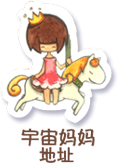
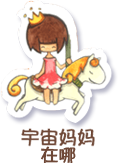
完善了品牌和联系我们页面

Changed region(s): [[0.3305, 0.8896, 0.661, 1.0]]

diff --git a/default_002.html b/default_002.html
@@ -32,68 +32,68 @@
       <div class="list_box relative">
         <div class="list_rj">
                     <div class="rj_box">
-            <span><a href="http://www.unclema.com/index.php?c=article&amp;id=449" title="Hello，马克叔叔"><img src="261244105766.jpg"></a></span>
-            <p><em><img src="index_box_icon.png"></em><a href="http://www.unclema.com/index.php?c=article&amp;id=449">Hello，马克叔叔</a></p>
+            <span><a href="http://www.unclema.com/index.php?c=article&amp;id=449" title="Hello，宇宙妈妈"><img src="261244105766.jpg"></a></span>
+            <p><em><img src="index_box_icon.png"></em><a href="http://www.unclema.com/index.php?c=article&amp;id=449">Hello，宇宙妈妈</a></p>
           </div>
                     <div class="rj_box">
             <span><a href="http://www.unclema.com/index.php?c=article&amp;id=448" title="Thank you for everything"><img src="261231565025.jpg"></a></span>
             <p><em><img src="index_box_icon.png"></em><a href="http://www.unclema.com/index.php?c=article&amp;id=448">Thank you for everything</a></p>
           </div>
                     <div class="rj_box">
-            <span><a href="http://www.unclema.com/index.php?c=article&amp;id=410" title="我心中的马克叔叔（一）"><img src="271101518785.jpg"></a></span>
-            <p><em><img src="index_box_icon.png"></em><a href="http://www.unclema.com/index.php?c=article&amp;id=410">我心中的马克叔叔（一）</a></p>
+            <span><a href="http://www.unclema.com/index.php?c=article&amp;id=410" title="我心中的宇宙妈妈（一）"><img src="271101518785.jpg"></a></span>
+            <p><em><img src="index_box_icon.png"></em><a href="http://www.unclema.com/index.php?c=article&amp;id=410">我心中的宇宙妈妈（一）</a></p>
           </div>
                     <div class="rj_box">
             <span><a href="http://www.unclema.com/index.php?c=article&amp;id=387" title="你在我身边，从未走远"><img src="112313166602.jpg"></a></span>
             <p><em><img src="index_box_icon.png"></em><a href="http://www.unclema.com/index.php?c=article&amp;id=387">你在我身边，从未走远</a></p>
           </div>
                     <div class="rj_box">
-            <span><a href="http://www.unclema.com/index.php?c=article&amp;id=386" title="宛若新生——纪马克六周年"><img src="111809564662.jpg"></a></span>
-            <p><em><img src="index_box_icon.png"></em><a href="http://www.unclema.com/index.php?c=article&amp;id=386">宛若新生——纪马克六周年</a></p>
+            <span><a href="http://www.unclema.com/index.php?c=article&amp;id=386" title="宛若新生——纪宇宙妈妈六周年"><img src="111809564662.jpg"></a></span>
+            <p><em><img src="index_box_icon.png"></em><a href="http://www.unclema.com/index.php?c=article&amp;id=386">宛若新生——纪宇宙妈妈六周年</a></p>
           </div>
                     <div class="rj_box">
-            <span><a href="http://www.unclema.com/index.php?c=article&amp;id=250" title="马克叔叔推出会员积分兑换活动"><img src="241303596531.jpg"></a></span>
-            <p><em><img src="index_box_icon.png"></em><a href="http://www.unclema.com/index.php?c=article&amp;id=250">马克叔叔推出会员积分兑换活动</a></p>
+            <span><a href="http://www.unclema.com/index.php?c=article&amp;id=250" title="宇宙妈妈推出会员积分兑换活动"><img src="241303596531.jpg"></a></span>
+            <p><em><img src="index_box_icon.png"></em><a href="http://www.unclema.com/index.php?c=article&amp;id=250">宇宙妈妈推出会员积分兑换活动</a></p>
           </div>
                     <div class="rj_box">
-            <span><a href="http://www.unclema.com/index.php?c=article&amp;id=247" title="非一般的马克生日会！"><img src="232051164320.jpg"></a></span>
-            <p><em><img src="index_box_icon.png"></em><a href="http://www.unclema.com/index.php?c=article&amp;id=247">非一般的马克生日会！</a></p>
+            <span><a href="http://www.unclema.com/index.php?c=article&amp;id=247" title="非一般的宇宙妈妈生日会！"><img src="232051164320.jpg"></a></span>
+            <p><em><img src="index_box_icon.png"></em><a href="http://www.unclema.com/index.php?c=article&amp;id=247">非一般的宇宙妈妈生日会！</a></p>
           </div>
                     <div class="rj_box">
-            <span><a href="http://www.unclema.com/index.php?c=article&amp;id=226" title="马克森林与你以爱相约！"><img src="122008198672.jpg"></a></span>
-            <p><em><img src="index_box_icon.png"></em><a href="http://www.unclema.com/index.php?c=article&amp;id=226">马克森林与你以爱相约！</a></p>
+            <span><a href="http://www.unclema.com/index.php?c=article&amp;id=226" title="宇宙妈妈森林与你以爱相约！"><img src="122008198672.jpg"></a></span>
+            <p><em><img src="index_box_icon.png"></em><a href="http://www.unclema.com/index.php?c=article&amp;id=226">宇宙妈妈森林与你以爱相约！</a></p>
           </div>
                     <div class="rj_box">
-            <span><a href="http://www.unclema.com/index.php?c=article&amp;id=216" title="期待马克森林新店！"><img src="121704053396.jpg"></a></span>
-            <p><em><img src="index_box_icon.png"></em><a href="http://www.unclema.com/index.php?c=article&amp;id=216">期待马克森林新店！</a></p>
+            <span><a href="http://www.unclema.com/index.php?c=article&amp;id=216" title="期待宇宙妈妈森林新店！"><img src="121704053396.jpg"></a></span>
+            <p><em><img src="index_box_icon.png"></em><a href="http://www.unclema.com/index.php?c=article&amp;id=216">期待宇宙妈妈森林新店！</a></p>
           </div>
                     <div class="rj_box">
-            <span><a href="http://www.unclema.com/index.php?c=article&amp;id=207" title="马克叔叔泸州乐园店梦幻登场！"><img src="271136486878.png"></a></span>
-            <p><em><img src="index_box_icon.png"></em><a href="http://www.unclema.com/index.php?c=article&amp;id=207">马克叔叔泸州乐园店梦幻登场！</a></p>
+            <span><a href="http://www.unclema.com/index.php?c=article&amp;id=207" title="宇宙妈妈泸州乐园店梦幻登场！"><img src="271136486878.png"></a></span>
+            <p><em><img src="index_box_icon.png"></em><a href="http://www.unclema.com/index.php?c=article&amp;id=207">宇宙妈妈泸州乐园店梦幻登场！</a></p>
           </div>
                     <div class="rj_box">
-            <span><a href="http://www.unclema.com/index.php?c=article&amp;id=198" title="关于马克叔叔被侵权的声明"><img src="161415574250.jpg"></a></span>
-            <p><em><img src="index_box_icon.png"></em><a href="http://www.unclema.com/index.php?c=article&amp;id=198">关于马克叔叔被侵权的声明</a></p>
+            <span><a href="http://www.unclema.com/index.php?c=article&amp;id=198" title="关于宇宙妈妈被侵权的声明"><img src="161415574250.jpg"></a></span>
+            <p><em><img src="index_box_icon.png"></em><a href="http://www.unclema.com/index.php?c=article&amp;id=198">关于宇宙妈妈被侵权的声明</a></p>
           </div>
                     <div class="rj_box">
-            <span><a href="http://www.unclema.com/index.php?c=article&amp;id=195" title="马克一猜到底"><img src="181201503138.jpg"></a></span>
-            <p><em><img src="index_box_icon.png"></em><a href="http://www.unclema.com/index.php?c=article&amp;id=195">马克一猜到底</a></p>
+            <span><a href="http://www.unclema.com/index.php?c=article&amp;id=195" title="宇宙妈妈一猜到底"><img src="181201503138.jpg"></a></span>
+            <p><em><img src="index_box_icon.png"></em><a href="http://www.unclema.com/index.php?c=article&amp;id=195">宇宙妈妈一猜到底</a></p>
           </div>
                     <div class="rj_box">
-            <span><a href="http://www.unclema.com/index.php?c=article&amp;id=191" title="马克时光机"><img src="291810314131.jpg"></a></span>
-            <p><em><img src="index_box_icon.png"></em><a href="http://www.unclema.com/index.php?c=article&amp;id=191">马克时光机</a></p>
+            <span><a href="http://www.unclema.com/index.php?c=article&amp;id=191" title="宇宙妈妈时光机"><img src="291810314131.jpg"></a></span>
+            <p><em><img src="index_box_icon.png"></em><a href="http://www.unclema.com/index.php?c=article&amp;id=191">宇宙妈妈时光机</a></p>
           </div>
                     <div class="rj_box">
-            <span><a href="http://www.unclema.com/index.php?c=article&amp;id=188" title="马克亲子模特大评选"><img src="191447566348.jpg"></a></span>
-            <p><em><img src="index_box_icon.png"></em><a href="http://www.unclema.com/index.php?c=article&amp;id=188">马克亲子模特大评选</a></p>
+            <span><a href="http://www.unclema.com/index.php?c=article&amp;id=188" title="宇宙妈妈亲子模特大评选"><img src="191447566348.jpg"></a></span>
+            <p><em><img src="index_box_icon.png"></em><a href="http://www.unclema.com/index.php?c=article&amp;id=188">宇宙妈妈亲子模特大评选</a></p>
           </div>
                     <div class="rj_box">
             <span><a href="http://www.unclema.com/index.php?c=article&amp;id=187" title="辣妈有一套！"><img src="091822112523.jpg"></a></span>
             <p><em><img src="index_box_icon.png"></em><a href="http://www.unclema.com/index.php?c=article&amp;id=187">辣妈有一套！</a></p>
           </div>
                     <div class="rj_box">
-            <span><a href="http://www.unclema.com/index.php?c=article&amp;id=179" title="《马克的春天，一起取暖！》"><img src="271115407051.jpg"></a></span>
-            <p><em><img src="index_box_icon.png"></em><a href="http://www.unclema.com/index.php?c=article&amp;id=179">《马克的春天，一起取暖！》</a></p>
+            <span><a href="http://www.unclema.com/index.php?c=article&amp;id=179" title="《宇宙妈妈的春天，一起取暖！》"><img src="271115407051.jpg"></a></span>
+            <p><em><img src="index_box_icon.png"></em><a href="http://www.unclema.com/index.php?c=article&amp;id=179">《宇宙妈妈的春天，一起取暖！》</a></p>
           </div>
                   </div>
       </div>
@@ -101,7 +101,7 @@
     <div class="w990 sub_footer relative">
       
       <p style="display: none;"></p>
-      <a href="http://www.unclema.com/index.php?c=article&amp;a=type&amp;tid=1" class="lxmk_btn absolute"></a><a href="http://www.taobao.com/" class="scmk_btn absolute"></a><a href="http://www.unclema.com/index.php?c=article&amp;id=100" class="zdmk_btn absolute"></a>
+      <a href="http://www.unclema.com/index.php?c=article&amp;a=type&amp;tid=1" class="lxmk_btn absolute"></a><a href="http://www.taobao.com/" class="scmk_btn absolute"></a><a href="default.html" class="zdmk_btn absolute"></a>
 
     </div>
     <div class="telbox">

diff --git a/default 2.html b/default 2.html
@@ -4,7 +4,7 @@
 <meta content="text/html; charset=UTF-8" http-equiv="Content-Type">
 
     
-    <title>马克叔叔-马克叔叔，成都儿童摄影-百天照-周岁照-新生儿照-孕妈照-拍摄更专业！</title>
+    <title>宇宙妈妈，成都儿童摄影-百天照-周岁照-新生儿照-孕妈照-拍摄更专业！</title>
     <meta name="keywords" content=" ">
     <meta name="description" content=" ">
     
@@ -29,25 +29,25 @@
       <div class="list_box relative">
         <div class="list_ss">
                     <div class="ss_box">
-            <a href="http://www.unclema.com/index.php?c=article&amp;id=69" title="马克叔叔简介"><img src="181540304757.png"></a>
+            <a href="http://www.unclema.com/index.php?c=article&amp;id=69" title="宇宙妈妈简介"><img src="181540304757.png"></a>
           </div>
                     <div class="ss_box">
-            <a href="http://www.unclema.com/index.php?c=article&amp;id=68" title="马克品牌店"><img src="141104347977.jpg"></a>
+            <a href="http://www.unclema.com/index.php?c=article&amp;id=68" title="宇宙妈妈品牌店"><img src="141104347977.jpg"></a>
           </div>
                     <div class="ss_box">
-            <a href="http://www.unclema.com/index.php?c=article&amp;id=63" title="马克加盟店"><img src="141127112551.jpg"></a>
+            <a href="http://www.unclema.com/index.php?c=article&amp;id=63" title="宇宙妈妈加盟店"><img src="141127112551.jpg"></a>
           </div>
                     <div class="ss_box">
-            <a href="http://www.unclema.com/index.php?c=article&amp;id=62" title="加盟马克叔叔"><img src="021059421464.jpg"></a>
+            <a href="http://www.unclema.com/index.php?c=article&amp;id=62" title="加盟宇宙妈妈"><img src="021059421464.jpg"></a>
           </div>
                     <div class="ss_box">
             <a href="http://www.unclema.com/index.php?c=article&amp;id=59" title="拍照早知道"><img src="171655032799.png"></a>
           </div>
                     <div class="ss_box">
-            <a href="http://www.unclema.com/index.php?c=article&amp;id=61" title="马克叔叔六周年企业宣传片"><img src="051217431260.jpg"></a>
+            <a href="http://www.unclema.com/index.php?c=article&amp;id=61" title="宇宙妈妈六周年企业宣传片"><img src="051217431260.jpg"></a>
           </div>
                     <div class="ss_box">
-            <a href="http://www.unclema.com/index.php?c=article&amp;id=60" title="马克活动"><img src="011153201446.jpg"></a>
+            <a href="http://www.unclema.com/index.php?c=article&amp;id=60" title="宇宙妈妈活动"><img src="011153201446.jpg"></a>
           </div>
                   </div>
       </div>
@@ -55,7 +55,7 @@
     <div class="w990 sub_footer relative">
       <div class="pager"></div>
       <p style="display: none;"></p>
-      <a href="http://www.unclema.com/index.php?c=article&amp;a=type&amp;tid=1" class="lxmk_btn absolute"></a><a href="http://www.taobao.com/" class="scmk_btn absolute"></a><a href="http://www.unclema.com/index.php?c=article&amp;id=100" class="zdmk_btn absolute"></a>
+      <a href="http://www.unclema.com/index.php?c=article&amp;a=type&amp;tid=1" class="lxmk_btn absolute"></a><a href="http://www.taobao.com/" class="scmk_btn absolute"></a><a href="default.html" class="zdmk_btn absolute"></a>
 
     </div>
     <div class="telbox">

diff --git a/default_004.html b/default_004.html
@@ -4,7 +4,7 @@
 <meta content="text/html; charset=UTF-8" http-equiv="Content-Type">
 
     
-    <title>孕妇&amp;新生-马克叔叔，成都儿童摄影-百天照-周岁照-新生儿照-孕妈照-拍摄更专业！</title>
+    <title>孕妇&amp;新生-宇宙妈妈，成都儿童摄影-百天照-周岁照-新生儿照-孕妈照-拍摄更专业！</title>
     <meta name="keywords" content=" ">
     <meta name="description" content=" ">
 
@@ -72,8 +72,8 @@
             <p><em><img src="index_box_icon.png"></em><a href="http://www.unclema.com/index.php?c=article&amp;id=439">万物梦生</a><em><img src="index_box_icon.png"></em></p>
           </div>
                     <div class="cp_box">
-            <span><a href="http://www.unclema.com/index.php?c=article&amp;id=408" title="马克新生儿"><img src="052353025398.jpg"></a></span>
-            <p><em><img src="index_box_icon.png"></em><a href="http://www.unclema.com/index.php?c=article&amp;id=408">马克新生儿</a><em><img src="index_box_icon.png"></em></p>
+            <span><a href="http://www.unclema.com/index.php?c=article&amp;id=408" title="宇宙妈妈新生儿"><img src="052353025398.jpg"></a></span>
+            <p><em><img src="index_box_icon.png"></em><a href="http://www.unclema.com/index.php?c=article&amp;id=408">宇宙妈妈新生儿</a><em><img src="index_box_icon.png"></em></p>
           </div>
                     <div class="cp_box">
             <span><a href="http://www.unclema.com/index.php?c=article&amp;id=405" title="雪灵"><img src="181409328161.jpg"></a></span>
@@ -104,7 +104,7 @@
           <a href="http://www.unclema.com/index.php?c=article&amp;a=type&amp;tid=24&amp;page=1" class="first"></a><a href="http://www.unclema.com/index.php?c=article&amp;a=type&amp;tid=24&amp;page=1" class="prepage"></a><span class="pagenum"><a>1</a><a href="http://www.unclema.com/index.php?c=article&amp;a=type&amp;tid=24&amp;page=2">2</a></span><a href="http://www.unclema.com/index.php?c=article&amp;a=type&amp;tid=24&amp;page=2" class="nextpage"></a><a href="http://www.unclema.com/index.php?c=article&amp;a=type&amp;tid=24&amp;page=2" class="last"></a>        </div>
       </div>
       <p style="display: none;"></p>
-      <a href="default_003.html" class="lxmk_btn absolute" indepth="true"></a><a href="http://www.taobao.com" class="scmk_btn absolute" indepth="true"></a><a href="default_015.html" class="zdmk_btn absolute" indepth="true"></a>
+      <a href="default_003.html" class="lxmk_btn absolute" indepth="true"></a><a href="http://www.taobao.com" class="scmk_btn absolute" indepth="true"></a><a href="default.html" class="zdmk_btn absolute" indepth="true"></a>
     </div>
     <div class="telbox">
 <img src="010959581083.png" usemap="#Map" border="0">

diff --git a/default.html b/default.html
@@ -4,7 +4,7 @@
 <meta content="text/html; charset=UTF-8" http-equiv="Content-Type">
 
     
-    <title>马克叔叔-马克叔叔，成都儿童摄影-百天照-周岁照-新生儿照-孕妈照-拍摄更专业！</title>
+    <title>宇宙妈妈品牌，成都儿童摄影-百天照-周岁照-新生儿照-孕妈照-拍摄更专业！</title>
     <meta name="keywords" content=" ">
     <meta name="description" content=" ">
     
@@ -29,25 +29,7 @@
       <div class="list_box relative">
         <div class="list_ss">
                     <div class="ss_box">
-            <a href="http://www.unclema.com/index.php?c=article&amp;id=69" title="马克叔叔简介"><img src="181540304757.png"></a>
-          </div>
-                    <div class="ss_box">
-            <a href="http://www.unclema.com/index.php?c=article&amp;id=68" title="马克品牌店"><img src="141104347977.jpg"></a>
-          </div>
-                    <div class="ss_box">
-            <a href="http://www.unclema.com/index.php?c=article&amp;id=63" title="马克加盟店"><img src="141127112551.jpg"></a>
-          </div>
-                    <div class="ss_box">
-            <a href="http://www.unclema.com/index.php?c=article&amp;id=62" title="加盟马克叔叔"><img src="021059421464.jpg"></a>
-          </div>
-                    <div class="ss_box">
-            <a href="http://www.unclema.com/index.php?c=article&amp;id=59" title="拍照早知道"><img src="171655032799.png"></a>
-          </div>
-                    <div class="ss_box">
-            <a href="http://www.unclema.com/index.php?c=article&amp;id=61" title="马克叔叔六周年企业宣传片"><img src="051217431260.jpg"></a>
-          </div>
-                    <div class="ss_box">
-            <a href="http://www.unclema.com/index.php?c=article&amp;id=60" title="马克活动"><img src="011153201446.jpg"></a>
+            <a href="http://www.unclema.com/index.php?c=article&amp;id=69" title=""><img src="photo/wait.png"></a>
           </div>
                   </div>
       </div>
@@ -55,7 +37,7 @@
     <div class="w990 sub_footer relative">
       <div class="pager"></div>
       <p style="display: none;"></p>
-      <a href="http://www.unclema.com/index.php?c=article&amp;a=type&amp;tid=1" class="lxmk_btn absolute"></a><a href="http://www.taobao.com/" class="scmk_btn absolute"></a><a href="http://www.unclema.com/index.php?c=article&amp;id=100" class="zdmk_btn absolute"></a>
+      <a href="http://www.unclema.com/index.php?c=article&amp;a=type&amp;tid=1" class="lxmk_btn absolute"></a><a href="http://www.taobao.com/" class="scmk_btn absolute"></a><a href="default.html" class="zdmk_btn absolute"></a>
 
     </div>
     <div class="telbox">

diff --git a/default_005.html b/default_005.html
@@ -4,7 +4,7 @@
 <meta content="text/html; charset=UTF-8" http-equiv="Content-Type">
 
     
-    <title>定制主题-马克叔叔，成都儿童摄影-百天照-周岁照-新生儿照-孕妈照-拍摄更专业！</title>
+    <title>定制主题-宇宙妈妈，成都儿童摄影-百天照-周岁照-新生儿照-孕妈照-拍摄更专业！</title>
     <meta name="keywords" content=" ">
     <meta name="description" content=" ">
 
@@ -56,7 +56,7 @@
             <p><em><img src="index_box_icon.png"></em><a href="http://www.unclema.com/index.php?c=article&amp;id=438">TINA SHOW</a><em><img src="index_box_icon.png"></em></p>
           </div>
                     <div class="cp_box">
-            <span><a href="http://www.unclema.com/index.php?c=article&amp;id=409" title="Think different—马克，和而不同"><img src="151752461180.jpg"></a></span>
+            <span><a href="http://www.unclema.com/index.php?c=article&amp;id=409" title="Think different—宇宙妈妈，和而不同"><img src="151752461180.jpg"></a></span>
             <p><em><img src="index_box_icon.png"></em><a href="http://www.unclema.com/index.php?c=article&amp;id=409">Think different—马...</a><em><img src="index_box_icon.png"></em></p>
           </div>
                     <div class="cp_box">
@@ -104,7 +104,7 @@
           <a href="http://www.unclema.com/index.php?c=article&amp;a=type&amp;tid=32&amp;page=1" class="first"></a><a href="http://www.unclema.com/index.php?c=article&amp;a=type&amp;tid=32&amp;page=1" class="prepage"></a><span class="pagenum"><a>1</a><a href="http://www.unclema.com/index.php?c=article&amp;a=type&amp;tid=32&amp;page=2">2</a></span><a href="http://www.unclema.com/index.php?c=article&amp;a=type&amp;tid=32&amp;page=2" class="nextpage"></a><a href="http://www.unclema.com/index.php?c=article&amp;a=type&amp;tid=32&amp;page=2" class="last"></a>        </div>
       </div>
       <p style="display: none;"></p>
-      <a href="default_003.html" class="lxmk_btn absolute" indepth="true"></a><a href="http://www.taobao.com" class="scmk_btn absolute" indepth="true"></a><a href="default_015.html" class="zdmk_btn absolute" indepth="true"></a>
+      <a href="default_003.html" class="lxmk_btn absolute" indepth="true"></a><a href="http://www.taobao.com" class="scmk_btn absolute" indepth="true"></a><a href="default.html" class="zdmk_btn absolute" indepth="true"></a>
     </div>
     <div class="telbox">
 <img src="010959581083.png" usemap="#Map" border="0">

diff --git a/default_001.html b/default_001.html
@@ -4,7 +4,7 @@
 <meta content="text/html; charset=UTF-8" http-equiv="Content-Type">
 
     
-    <title>马克出品-马克叔叔，成都儿童摄影-百天照-周岁照-新生儿照-孕妈照-拍摄更专业！</title>
+    <title>宇宙妈妈出品，成都儿童摄影-百天照-周岁照-新生儿照-孕妈照-拍摄更专业！</title>
     <meta name="keywords" content=" ">
     <meta name="description" content=" ">
 
@@ -40,8 +40,8 @@
             <p><em><img src="index_box_icon.png"></em><a href="default_007.html" indepth="true">New Born</a><em><img src="index_box_icon.png"></em></p>
           </div>
                     <div class="cp_box">
-            <span><a href="default_008.html" title="马克森林-酥酥" indepth="true"><img src="photo/百天/静静/0.jpg"></a></span>
-            <p><em><img src="index_box_icon.png"></em><a href="default_008.html" indepth="true">马克森林-酥酥</a><em><img src="index_box_icon.png"></em></p>
+            <span><a href="default_008.html" title="宇宙妈妈森林-酥酥" indepth="true"><img src="photo/百天/静静/0.jpg"></a></span>
+            <p><em><img src="index_box_icon.png"></em><a href="default_008.html" indepth="true">宇宙妈妈森林-酥酥</a><em><img src="index_box_icon.png"></em></p>
           </div>
                     <div class="cp_box">
             <span><a href="default_009.html" title="天鹅公主Odette" indepth="true"><img src="photo/亲子全家福/0.jpg"></a></span>
@@ -102,7 +102,7 @@
       <div class="pager">
         
       <p style="display: none;"></p>
-      <a href="default_003.html" class="lxmk_btn absolute" indepth="true"></a><a href="http://www.taobao.com" class="scmk_btn absolute" indepth="true"></a><a href="default_015.html" class="zdmk_btn absolute" indepth="true"></a>
+      <a href="default_003.html" class="lxmk_btn absolute" indepth="true"></a><a href="http://www.taobao.com" class="scmk_btn absolute" indepth="true"></a><a href="default.html" class="zdmk_btn absolute" indepth="true"></a>
     </div>
     <div class="telbox">
 <img src="010959581083.png" usemap="#Map" border="0">

diff --git a/default_003.html b/default_003.html
@@ -4,9 +4,9 @@
 <meta content="text/html; charset=UTF-8" http-equiv="Content-Type">
 
     
-    <title>找到马克-马克叔叔，成都儿童摄影-百天照-周岁照-新生儿照-孕妈照-拍摄更专业！</title>
+    <title>找到宇宙妈妈-宇宙妈妈，成都儿童摄影-百天照-周岁照-新生儿照-孕妈照-拍摄更专业！</title>
     <meta name="keywords" content=" ">
-    <meta name="description" content="马克叔叔联系方式 ">
+    <meta name="description" content="宇宙妈妈联系方式 ">
 
     
     <link rel="shortcut icon" href="favicon.ico">
@@ -46,7 +46,7 @@
 					<br>
 				</td>
 				<td style="text-align: center; width: 900px; vertical-align: middle;">
-					<img src="212021036364.jpg" alt=""><img src="212021123623.jpg" alt=""><br>
+					<img src="address.png" alt=""><br>
 				</td>
 				<td style="text-align: center;">
 					<br>
@@ -65,7 +65,7 @@
     </div>
     <div class="w990 sub_footer relative">
       <p style="display: none;"></p>
-      <a href="default_003.html" class="lxmk_btn absolute" indepth="true"></a><a href="http://www.taobao.com" class="scmk_btn absolute" indepth="true"></a><a href="default_015.html" class="zdmk_btn absolute" indepth="true"></a>
+      <a href="default_003.html" class="lxmk_btn absolute" indepth="true"></a><a href="http://www.taobao.com" class="scmk_btn absolute" indepth="true"></a><a href="default.html" class="zdmk_btn absolute" indepth="true"></a>
 
     </div>
     <div class="telbox">

diff --git a/website.html b/website.html
@@ -39,7 +39,7 @@
 <div class="pwdcheck1">
 <div class="pwdcheck3">
 <div class="pwdfont1"><span style="font-weight: bold;">提示：</span>查看密码不是您的CNZZ帐号密码，<a style="color: rgb(255, 255, 255);" href="http://www.umeng.com/" target="_top" class="pwdl">使用<span class="pwdfont5">CNZZ</span>帐号登录</a></div>
-查看“马克叔叔的照相馆”站点数据</div>
+查看“宇宙妈妈的照相馆”站点数据</div>
 </div>
 <div class="pwdcheck4">
 <div style="width: 100%; height: 58px;">
@@ -75,7 +75,7 @@
 </div>
 
 
-<div style="padding: 0px 10px; line-height: 20px;"><span class="bblue">声明：</span>本页面属于CNZZ数据专家(<a href="http://www.umeng.com/" target="_top" class="pwdb">www.umeng.com</a>)，为互联网网站提供流量统计分析服务。“马克叔叔的照...”的经营活动与CNZZ数据专家无关。</div>
+<div style="padding: 0px 10px; line-height: 20px;"><span class="bblue">声明：</span>本页面属于CNZZ数据专家(<a href="http://www.umeng.com/" target="_top" class="pwdb">www.umeng.com</a>)，为互联网网站提供流量统计分析服务。“宇宙妈妈的照...”的经营活动与CNZZ数据专家无关。</div>
 </div>
 </div>
 

diff --git a/diary.html b/diary.html
@@ -4,7 +4,7 @@
 <meta content="text/html; charset=UTF-8" http-equiv="Content-Type">
 
     
-    <title>马克叔叔-马克叔叔，成都儿童摄影-百天照-周岁照-新生儿照-孕妈照-拍摄更专业！</title>
+    <title>宇宙妈妈日记，成都儿童摄影-百天照-周岁照-新生儿照-孕妈照-拍摄更专业！</title>
     <meta name="keywords" content=" ">
     <meta name="description" content=" ">
     
@@ -55,7 +55,7 @@
     <div class="w990 sub_footer relative">
       <div class="pager"></div>
       <p style="display: none;"></p>
-      <a href="http://www.unclema.com/index.php?c=article&amp;a=type&amp;tid=1" class="lxmk_btn absolute"></a><a href="http://www.taobao.com/" class="scmk_btn absolute"></a><a href="http://www.unclema.com/index.php?c=article&amp;id=100" class="zdmk_btn absolute"></a>
+      <a href="http://www.unclema.com/index.php?c=article&amp;a=type&amp;tid=1" class="lxmk_btn absolute"></a><a href="http://www.taobao.com/" class="scmk_btn absolute"></a><a href="default.html" class="zdmk_btn absolute"></a>
 
     </div>
     <div class="telbox">

diff --git a/index.html b/index.html
@@ -97,7 +97,7 @@
         <div class="cookie absolute"><img src="cookie.png"></div>
       </div>
     </div>
-    <div class="w990 footer relative"><img src="footer.png"><p style="display: none;"><a href="ico.html" target="_top" indepth="true"><img src="21.gif" width="20" height="20" border="0"></a></p><a href="default_003.html" class="lxmk_btn absolute" indepth="true"></a><a href="http://www.taobao.com" class="scmk_btn absolute" indepth="true"></a><a href="default_015.html" class="zdmk_btn absolute" indepth="true"></a></div>
+    <div class="w990 footer relative"><img src="footer.png"><p style="display: none;"><a href="ico.html" target="_top" indepth="true"><img src="21.gif" width="20" height="20" border="0"></a></p><a href="default_003.html" class="lxmk_btn absolute" indepth="true"></a><a href="http://www.taobao.com" class="scmk_btn absolute" indepth="true"></a><a href="default.html" class="zdmk_btn absolute" indepth="true"></a></div>
     <div class="telbox">
 <img src="010959581083.png" usemap="#Map" border="0">
 <map name="Map">

diff --git a/default_008.html b/default_008.html
@@ -27,7 +27,7 @@
       <div class="subtop relative">
         <div class="subtop_box absolute">
           <div class="cp_title"><em><img src="index_box_icon.png"></em>
-            <h2>马克森林-酥酥</h2><em><img src="index_box_icon.png"></em>
+            <h2>宇宙妈妈森林-酥酥</h2><em><img src="index_box_icon.png"></em>
           </div>
         </div>
       </div>
@@ -69,7 +69,7 @@
           <a href="default_008.html" class="next" indepth="true"></a>        </div>
       </div>
       <p style="display: none;"></p>
-      <a href="default_003.html" class="lxmk_btn absolute" indepth="true"></a><a href="http://www.taobao.com" class="scmk_btn absolute" indepth="true"></a><a href="default_015.html" class="zdmk_btn absolute" indepth="true"></a>
+      <a href="default_003.html" class="lxmk_btn absolute" indepth="true"></a><a href="http://www.taobao.com" class="scmk_btn absolute" indepth="true"></a><a href="default.html" class="zdmk_btn absolute" indepth="true"></a>
 
     </div>
     <div class="telbox">

diff --git a/default_015.html b/default_015.html
@@ -60,7 +60,7 @@
           <a href="http://www.unclema.com/index.php?c=article&amp;id=102" class="next"></a>        </div>
       </div>
       <p style="display: none;"></p>
-      <a href="default_003.html" class="lxmk_btn absolute" indepth="true"></a><a href="http://www.taobao.com" class="scmk_btn absolute" indepth="true"></a><a href="default_015.html" class="zdmk_btn absolute" indepth="true"></a>
+      <a href="default_003.html" class="lxmk_btn absolute" indepth="true"></a><a href="http://www.taobao.com" class="scmk_btn absolute" indepth="true"></a><a href="default.html" class="zdmk_btn absolute" indepth="true"></a>
 
     </div>
     <div class="telbox">
